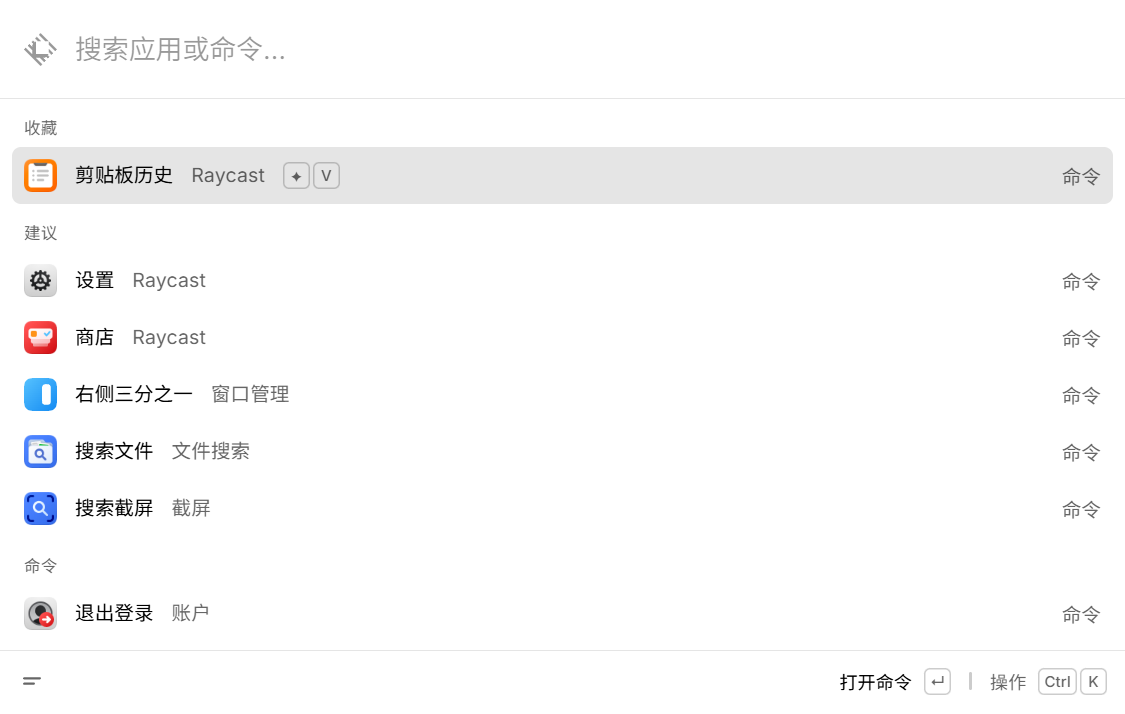
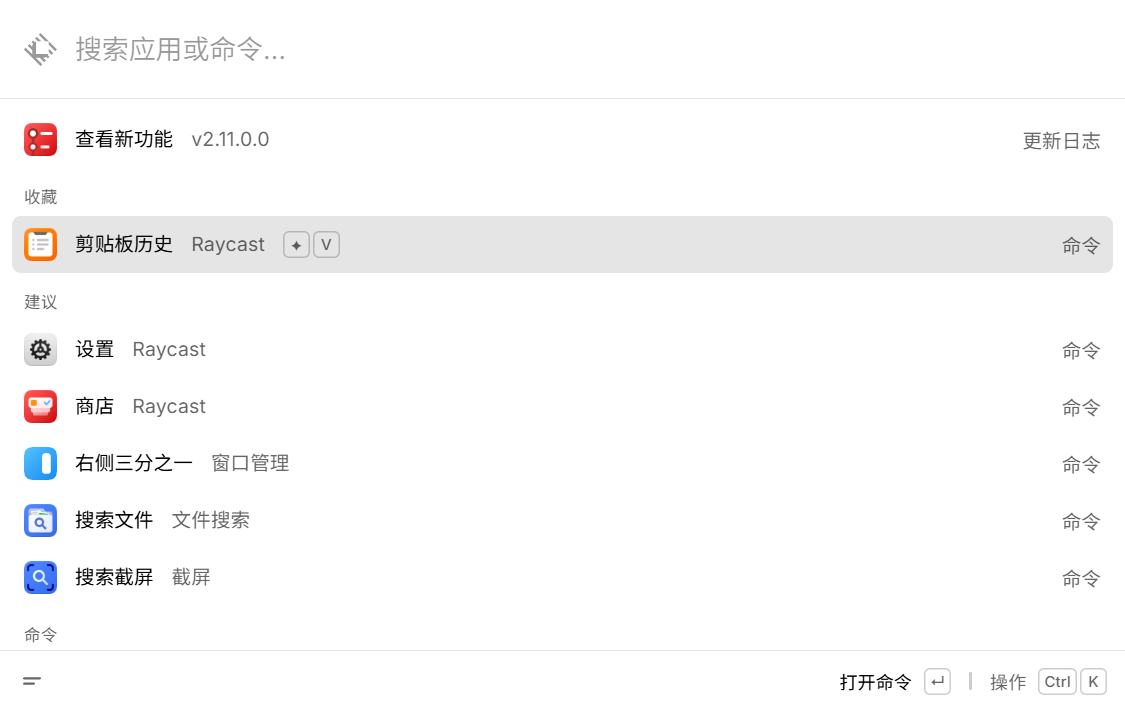
feat: support Raycast Windows 2.11.0.0

diff --git a/docs/validation.md b/docs/validation.md
@@ -1,5 +1,13 @@
 # Windows 汉化验收记录
 
+## 2.11.0.0-r1（2026-11-07）
+
+- 适配 Microsoft Store Raycast 2.11.0.0 x64，117 个资源文件、17,354 处显示修改。资源打包方式变化，替换次数不代表独立文案数量。
+- 新增 7 条界面译文，翻译更新日志的 33 个文本块、标题及横幅。
+- 适配新版退出接口；本机完成最终包卸载、安装及原版入口启动，主界面和更新日志中文显示已实测。
+- 修复大资源文件反复拼接导致的初始化超时，改为一次拼接；保留指纹与原文检查，并拒绝重叠或乱序修改。
+- 28 项自动化测试通过，包含大资源替换及七个版本更新日志的翻译和恢复。
+
 ## 2.10.1.0-r1（2026-11-03）
 
 - 适配 Microsoft Store Raycast 2.10.1.0 x64，184 个资源文件、8,254 处显示修改。
@@ -92,6 +100,6 @@
 
 没有批量安装插件，没有登录外部服务，没有测试真实账号操作、付费功能、设备控制或所有命令。插件源码与 Store 已发布版本可能不同；运行时只翻译实际安装版本能安全识别的字面量。截图只显示本机已验收的界面，不代表所有页面均为中文。
 
-**尚未在第二台真实电脑验证完整安装和界面。** 支持条件是当前用户已安装 Microsoft Store Raycast 2.10.1.0 x64 且指纹匹配。不能据此保证其他版本、ARM64、组织管理策略限制的环境或所有插件流程均可用。
+**尚未在第二台真实电脑验证完整安装和界面。** 支持条件是当前用户已安装 Microsoft Store Raycast 2.11.0.0 x64 且指纹匹配。不能据此保证其他版本、ARM64、组织管理策略限制的环境或所有插件流程均可用。
 
 更新保护：主程序版本或指纹变化时拒绝加载。插件更新时重新备份并分析；不支持的语法跳过并记录。汉化文件被用户手动修改时，卸载拒绝覆盖该文件并保留备份。

diff --git a/README.md b/README.md
@@ -2,7 +2,7 @@
 
 Raycast Windows Simplified Chinese Localization，支持主界面、设置、商店、更新日志和热门插件。非官方项目。
 
-**适配 Microsoft Store 版 Raycast 2.10.1.0 x64。**
+**适配 Microsoft Store 版 Raycast 2.11.0.0 x64。**
 
 [下载 Windows 版](https://github.com/zwjtano/raycast-windows-zh-CN/releases/latest) · [macOS 版](https://github.com/zwjtano/raycast-macos-zh-CN)
 
